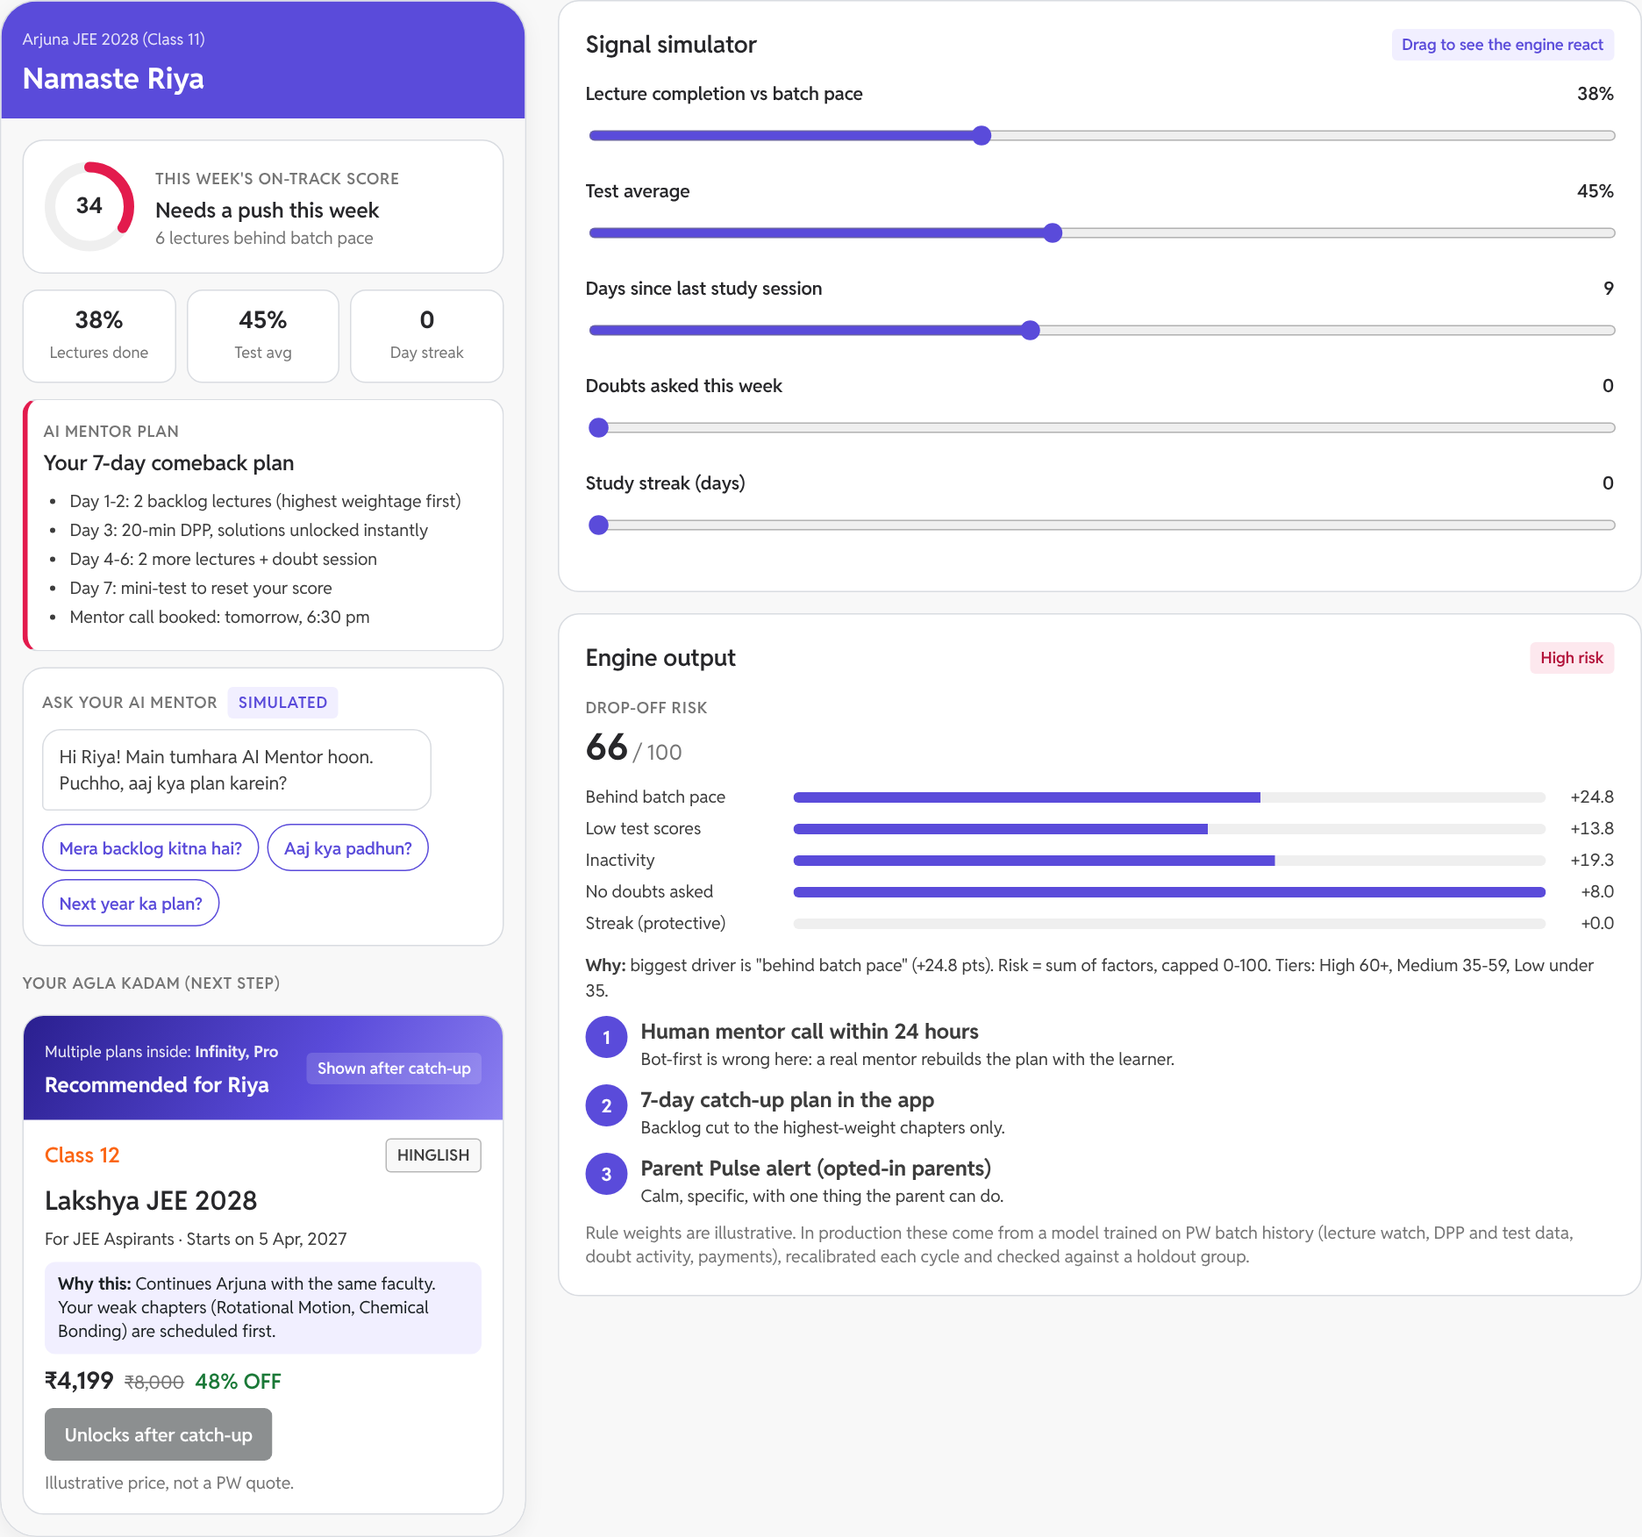
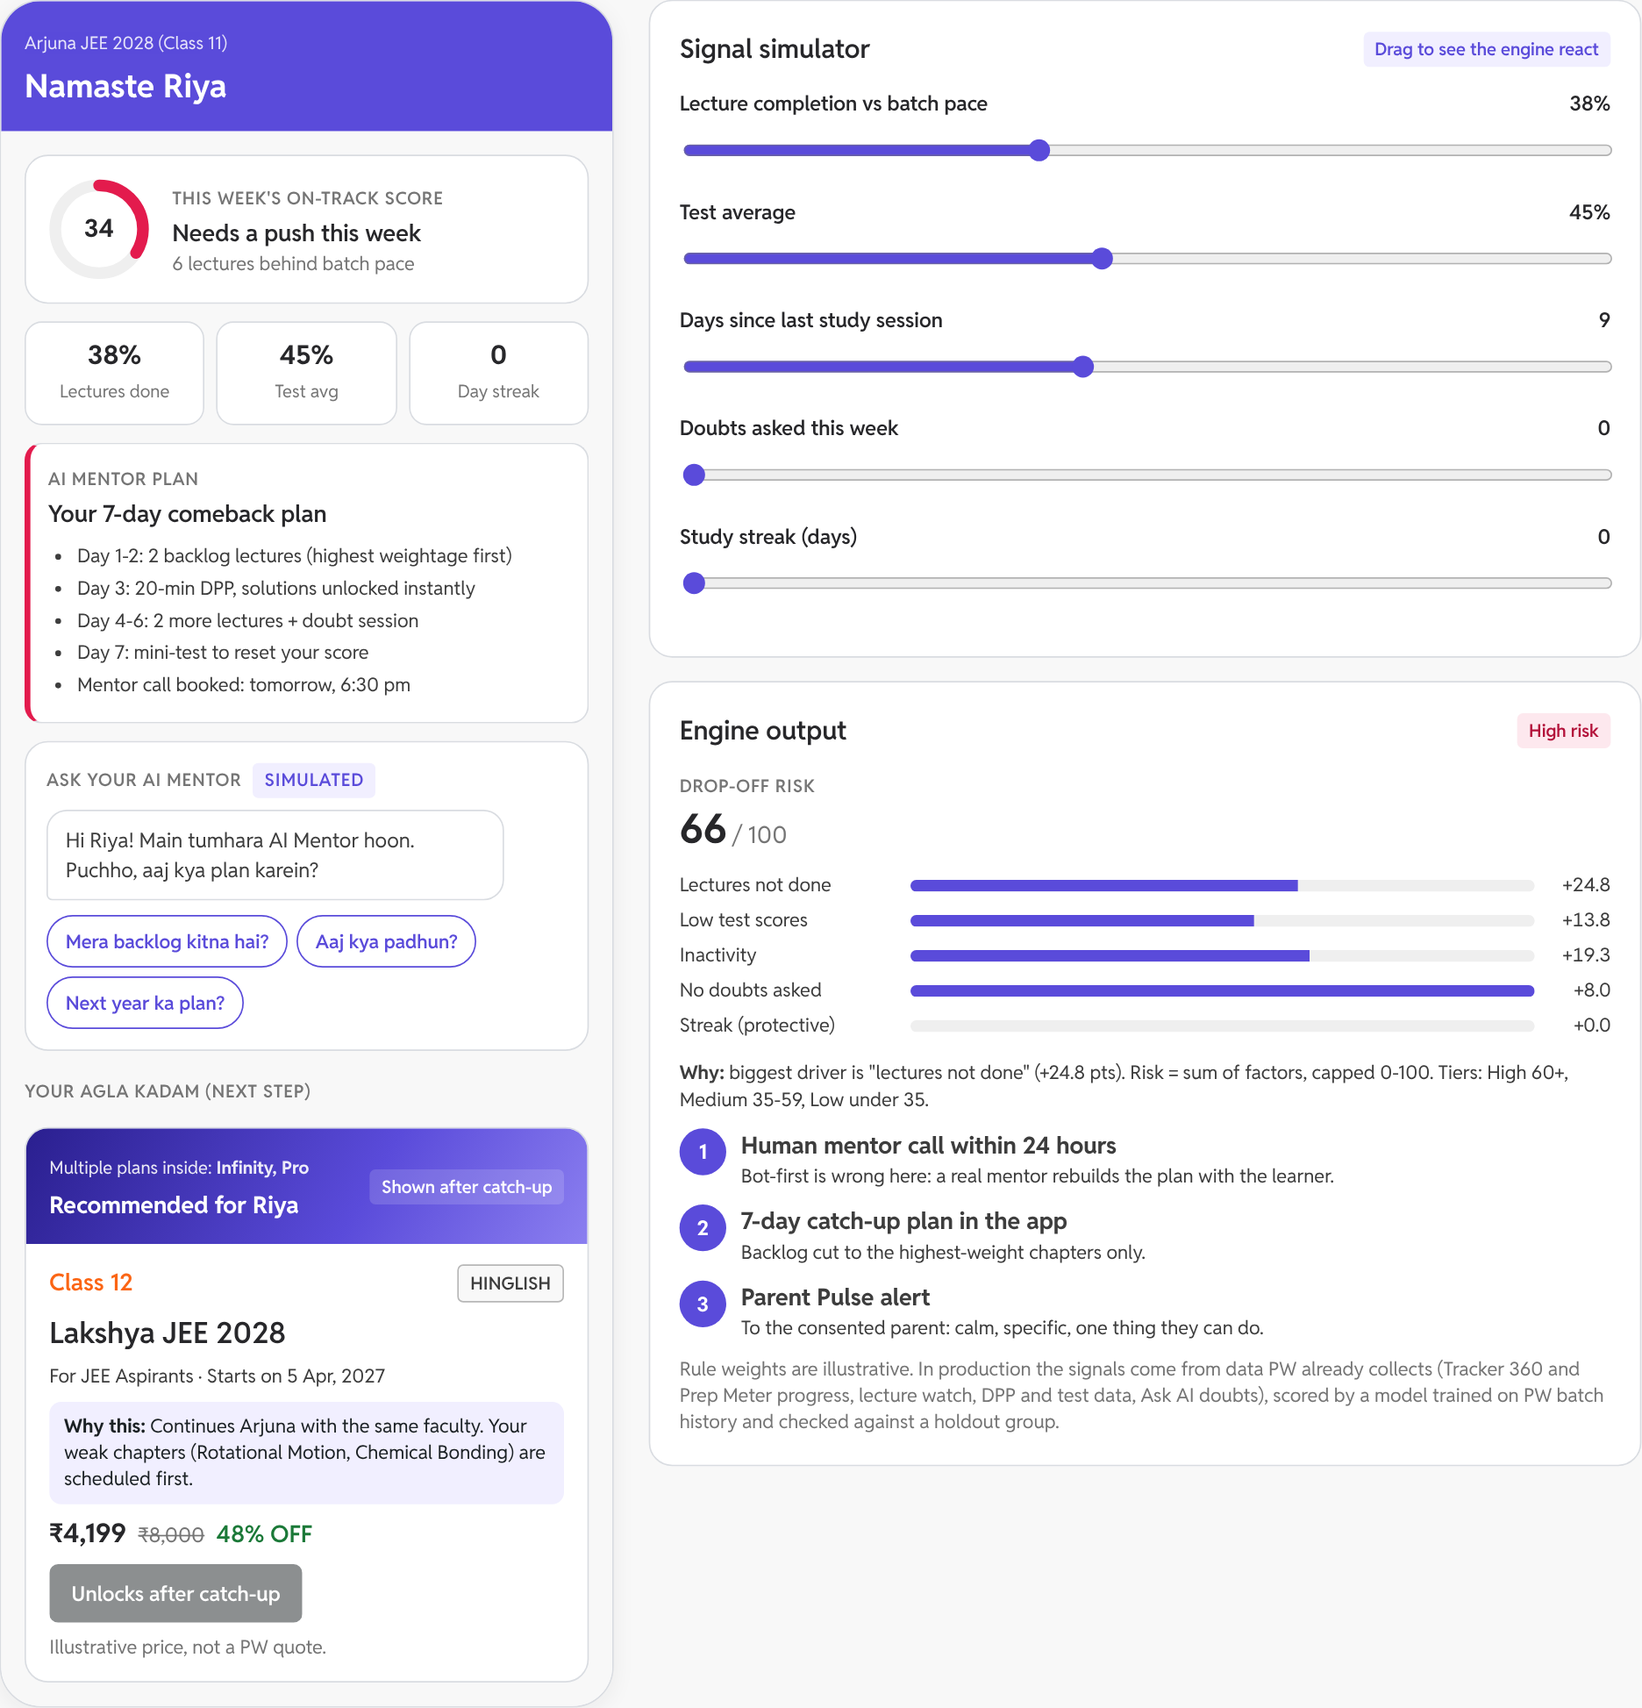
Fix two prototype defects on /pw-study and put the pages under CI (#215)
Review found both after #210 merged; both are on the live page today.

- The engine scored lectures against 100% and called the factor "Behind
  batch pace", while the card and the chat treat 75% as on pace. Aman, at
  82%, read "Ahead of batch pace" on the card and "Behind batch pace +7.2"
  beside it. The factor is now "Lectures not done", which is what
  (100 - done) x 0.4 measures. No weight or score changes.
- The simulated mentor reply posts 250 ms after the question. Switching
  learner inside that window dropped the old learner's reply into the new
  learner's cleared chat. The reply now posts only if its learner is still
  the one on screen.

The console's value column said "Fees at stake", but each value is
learners x expected win-back rate x price: fees expected to be won back, not
fees at stake. Relabelled in the header, the sort note, the KPI and the
case study's image alt text.

student.png and console.png are retaken from the current prototype at the
originals' framing and scale. The old student.png also predated the current
engine copy, so it now matches the page. The img width/height attributes are
updated to the new files.

scripts/pw-study.js (npm run test:pwstudy, now in CI) checks both pages at
390, 820 and 1440, with vercel.json's site-wide CSP injected because serve
sends no headers. Against current production it fails on exactly the three
defects above, at every width, and passes everything else. MUT=race,
[…]

diff --git a/scripts/pw-study.js b/scripts/pw-study.js
@@ -1,0 +1,222 @@
+// The PW case study (/pw-study) and its prototype (/pw-study/prototype) work
+// at phone, tablet and desktop width, under the site's real CSP.
+//
+// WHAT THIS GUARDS
+//   Both pages are self-contained HTML with a lot of inline logic: a risk
+//   engine, age-based Weekly Pulse routing, a seeded 5,000-learner console and
+//   an impact calculator whose total is quoted on the case study itself. None
+//   of that was covered by any suite, so a change to the engine weights, the
+//   calculator defaults or a label could ship a page that contradicts its own
+//   numbers without anything going red.
+//
+//   It also pins two defects that review found after launch:
+//   - The engine labelled its lecture factor "Behind batch pace" and counted it
+//     against 100%, while the card and the chat treat 75% as on pace. Aman, at
+//     82%, read "Ahead of batch pace" on the card and "Behind batch pace +7.2"
+//     beside it. The factor is now "Lectures not done".
+//   - A simulated mentor reply is posted 250 ms after the question. Switching
+//     learner inside that window dropped the old learner's reply into the new
+//     learner's freshly cleared chat.
+//
+// CSP
+//   `serve` sends no headers, and vercel.json's site-wide Content-Security-
+//   Policy is what production enforces. Every HTML response here gets that
+//   policy injected, so a violation shows up as a console error and fails the
+//   run, as it would on the live site.
+//
+// Run against a served build:  node scripts/pw-study.js
+// MUT=race removes the learner guard on the delayed reply; the chat check must
+// fail. MUT=label restores "Behind batch pace"; the consistency check must
+// fail. MUT=dash plants an em dash; the dash check must fail.
+const { chromium } = require('./_playwright.js');
+const vercel = require('../vercel.json');
+const BASE = process.env.BASE || 'http://127.0.0.1:8099';
+const MUT = process.env.MUT || '';
+
+const VIEWPORTS = [
+  { name: '390', width: 390, height: 844 },
+  { name: '820', width: 820, height: 1180 },
+  { name: '1440', width: 1440, height: 900 },
+];
+
+const CSP = (() => {
+  for (const h of vercel.headers) {
+    if (h.source !== '/(.*)') continue;
+    for (const x of h.headers) if (x.key === 'Content-Security-Policy') return x.value;
+  }
+  throw new Error('vercel.json has no site-wide Content-Security-Policy');
+})();
+
+function mutate(src) {
+  if (MUT === 'race') return src.replace('if(P[cur]===p) addMsg', 'addMsg');
+  if (MUT === 'label') return src.replace("k:'Lectures not done'", "k:'Behind batch pace'");
+  if (MUT === 'dash') return src.replace('</body>', '<p>one — two</p></body>');
+  return src;
+}
+
+const results = [];
+const check = (name, ok, detail) => results.push([ok ? 'PASS' : 'FAIL', name, detail == null ? '' : String(detail)]);
+const norm = (s) => (s || '').replace(/\s+/g, ' ').trim();
+
+async function open(browser, vp, path) {
+  const ctx = await browser.newContext({ viewport: { width: vp.width, height: vp.height } });
+  const bag = { errors: [], failed: [] };
+  await ctx.route('**/*', async (route) => {
+    const res = await route.fetch();
+    const headers = { ...res.headers() };
+    if (!(headers['content-type'] || '').includes('text/html')) return route.fulfill({ response: res });
+    headers['content-security-policy'] = CSP;
+    const body = new URL(route.request().url()).pathname.startsWith('/pw-study') ? mutate(await res.text()) : await res.text();
+    return route.fulfill({ response: res, headers, body });
+  });
+  const page = await ctx.newPage();
+  page.on('console', (m) => { if (m.type() === 'error') bag.errors.push(m.text()); });
+  page.on('pageerror', (e) => bag.errors.push('pageerror: ' + e.message));
+  page.on('requestfailed', (r) => bag.failed.push(r.url() + ' ' + (r.failure() || {}).errorText));
+  page.on('response', (r) => { if (r.status() >= 400) bag.failed.push(r.url() + ' HTTP ' + r.status()); });
+  const res = await page.goto(BASE + path, { waitUntil: 'networkidle' });
+  return { ctx, page, bag, status: res.status() };
+}
+
+// Title, textContent (hidden tabs included) and innerText, minus script/style.
+const dashes = (frame) => frame.evaluate(() => {
+  const c = document.body.cloneNode(true);
+  c.querySelectorAll('script,style,noscript').forEach((n) => n.remove());
+  return (document.title + '\n' + c.textContent + '\n' + document.body.innerText).match(/.{0,30}[–—].{0,30}/g) || [];
+});
+const hScroll = (page) => page.evaluate(() => document.documentElement.scrollWidth - document.documentElement.clientWidth);
+
+async function caseStudy(browser, vp) {
+  const L = `[${vp.name}] /pw-study`;
+  const { ctx, page, bag, status } = await open(browser, vp, '/pw-study');
+  check(`${L}: HTTP 200`, status === 200, status);
+
+  await page.click('.filters .chip[data-f="none"]');
+  const rows = await page.$$eval('#audit-tbl tbody tr', (rs) => rs.filter((r) => r.offsetParent !== null).length);
+  check(`${L}: audit "Not found" filter shows 5 rows`, rows === 5, rows);
+
+  // The screenshots stand in for the iframe below 1080px and hide above it.
+  const imgs = [];
+  for (const img of await page.$$('.shots.mob-only img')) {
+    if (!(await img.isVisible())) continue;
+    await img.scrollIntoViewIfNeeded();
+    await page.waitForFunction((el) => el.complete && el.naturalWidth > 0, img, { timeout: 10000 }).catch(() => {});
+    imgs.push(await img.evaluate((el) => el.complete && el.naturalWidth > 0));
+  }
+  const frameEl = await page.$('iframe.proto-frame');
+  const frameVisible = await frameEl.isVisible();
+  if (vp.width >= 1080) {
+    check(`${L}: iframe shown, screenshots hidden`, frameVisible && imgs.length === 0, `iframe=${frameVisible} imgs=${imgs.length}`);
+    await frameEl.scrollIntoViewIfNeeded();
+    const fr = await frameEl.contentFrame();
+    await fr.waitForFunction(() => (document.getElementById('e-tier') || {}).textContent, null, { timeout: 15000 });
+    const hero = await fr.$eval('.hero', (h) => getComputedStyle(h).display);
+    check(`${L}: embedded prototype hides its hero`, hero === 'none', hero);
+    const tier = norm(await fr.textContent('#e-tier'));
+    check(`${L}: embedded engine tag reads High risk`, tier === 'High risk', tier);
+    const d = await dashes(fr);
+    check(`${L}: no em/en dash inside the iframe`, d.length === 0, d.join(' | '));
+  } else {
+    check(`${L}: 3 screenshots load after scroll, iframe hidden`, imgs.length === 3 && imgs.every(Boolean) && !frameVisible,
+      `loaded=${imgs.filter(Boolean).length}/${imgs.length} iframe=${frameVisible}`);
+  }
+
+  const over = await hScroll(page);
+  check(`${L}: no horizontal page scroll`, over <= 0, over + 'px');
+  const d = await dashes(page);
+  check(`${L}: no em/en dash`, d.length === 0, d.join(' | '));
+  await page.waitForTimeout(300);
+  check(`${L}: zero console errors (CSP on)`, bag.errors.length === 0, bag.errors.join(' | '));
+  check(`${L}: zero failed requests`, bag.failed.length === 0, bag.failed.join(' | '));
+  await ctx.close();
+}
+
+async function prototype(browser, vp) {
+  const L = `[${vp.name}] /pw-study/prototype`;
+  const { ctx, page, bag, status } = await open(browser, vp, '/pw-study/prototype');
+  check(`${L}: HTTP 200`, status === 200, status);
+
+  const tiers = { 0: 'High risk', 1: 'Low risk', 2: 'Medium risk', 3: 'Medium risk' };
+  const got = {};
+  for (const i of [1, 2, 3, 0]) {
+    await page.click(`.persona-row .chip[data-p="${i}"]`);
+    got[i] = norm(await page.textContent('#e-tier'));
+  }
+  check(`${L}: Riya High, Aman Low, Meena Medium, Kabir Medium`,
+    Object.keys(tiers).every((i) => got[i] === tiers[i]), JSON.stringify(got));
+
+  // The card and the engine must not disagree about pace. A learner the card
+  // calls ahead must not have an engine factor that says they are behind.
+  const pace = [];
+  for (const i of [0, 1, 2, 3]) {
+    await page.click(`.persona-row .chip[data-p="${i}"]`);
+    const sub = norm(await page.textContent('#s-sub'));
+    const factors = norm(await page.textContent('#e-factors')).toLowerCase();
+    if (/ahead/i.test(sub) && /behind/.test(factors)) pace.push(`p${i}: "${sub}" vs engine "behind"`);
+  }
+  check(`${L}: card and engine agree on pace`, pace.length === 0, pace.join(' | '));
+
+  // Ask Riya a question, switch to Aman inside the 250 ms reply window. Aman's
+  // chat must hold only his own greeting.
+  await page.click('.persona-row .chip[data-p="0"]');
+  await page.click('#quick button[data-q="backlog"]');
+  await page.click('.persona-row .chip[data-p="1"]');
+  await page.waitForTimeout(500);
+  const chat = await page.$$eval('#chat .bubble', (b) => b.map((x) => x.textContent));
+  check(`${L}: a late reply never lands in the next learner's chat`,
+    chat.length === 1 && /Aman/.test(chat[0]), JSON.stringify(chat));
+
+  await page.click('#t-parent');
+  await page.click('#pp-learner button[data-p="3"]');
+  const kabir = norm(await page.textContent('#wa-title'));
+  await page.click('#pp-learner button[data-p="1"]');
+  const amanBefore = norm(await page.textContent('#wa-title'));
+  await page.check('#pp-share');
+  const amanAfter = norm(await page.textContent('#wa-title'));
+  check(`${L}: Pulse title by age and opt-in`,
+    kabir === 'PW Study Pulse' && amanBefore === 'PW Study Pulse' && amanAfter === 'PW Parent Pulse',
+    `Kabir=${kabir} Aman=${amanBefore} -> ${amanAfter}`);
+
+  const total = norm(await page.textContent('#m-total'));
+  check(`${L}: impact total ₹85.3 cr · $8.97M`, total === '₹85.3 cr · $8.97M', total);
+
+  await page.click('#t-console');
+  const head = norm(await page.textContent('#segtbl th:last-child'));
+  check(`${L}: value column is labelled as fees won back`, /^Fees won back/.test(head), head);
+  const picked = [];
+  for (const idx of [-1, 0]) {
+    const rows = await page.$$('#segtbl tbody tr');
+    const r = rows[idx < 0 ? rows.length + idx : idx];
+    const name = norm(await r.$eval('td', (td) => td.innerText));
+    await r.click();
+    picked.push([name, norm(await page.textContent('#seg-detail h3')), norm(await page.textContent('#seg-detail .label'))]);
+  }
+  check(`${L}: console row click updates "Selected group"`,
+    picked.every(([n, h, l]) => l === 'Selected group' && n === h) && picked[0][1] !== picked[1][1], JSON.stringify(picked));
+
+  let worst = 0;
+  for (const tab of ['#t-student', '#t-parent', '#t-console', '#t-brand']) {
+    await page.click(tab);
+    worst = Math.max(worst, await hScroll(page));
+  }
+  check(`${L}: no horizontal page scroll on any tab`, worst <= 0, worst + 'px');
+  const d = await dashes(page);
+  check(`${L}: no em/en dash`, d.length === 0, d.join(' | '));
+  await page.waitForTimeout(300);
+  check(`${L}: zero console errors (CSP on)`, bag.errors.length === 0, bag.errors.join(' | '));
+  check(`${L}: zero failed requests`, bag.failed.length === 0, bag.failed.join(' | '));
+  await ctx.close();
+}
+
+(async () => {
+  const browser = await chromium.launch();
+  for (const vp of VIEWPORTS) {
+    await caseStudy(browser, vp);
+    await prototype(browser, vp);
+  }
+  for (const [s, n, d] of results) console.log('  ' + s + '  ' + n.padEnd(70) + (d || ''));
+  const pass = results.filter((r) => r[0] === 'PASS').length;
+  console.log('\n' + pass + '/' + results.length + ' passed' + (MUT ? '  [MUT=' + MUT + ']' : ''));
+  await browser.close();
+  process.exit(pass === results.length ? 0 : 1);
+})().catch((e) => { console.error(e); process.exit(2); });

diff --git a/pw-study/prototype.html b/pw-study/prototype.html
@@ -358,13 +358,13 @@ footer .wrap{padding-top:16px;padding-bottom:24px;font-size:13px;line-height:19p
       </div>
       <div class="card">
         <h3>2 · What we do about it</h3>
-        <p class="small muted" style="margin-top:4px">Sorted by fees at stake, highest first. Click a column header to re-sort, or a row for detail.</p>
+        <p class="small muted" style="margin-top:4px">Sorted by expected fees won back, highest first. Click a column header to re-sort, or a row for detail.</p>
         <div class="tbl-wrap" style="margin-top:10px"><table id="segtbl"><thead><tr>
           <th><button data-k="seg">Group</button></th>
           <th><button data-k="action">Action this week</button></th>
           <th class="num"><button data-k="n">Learners</button></th>
           <th class="num"><button data-k="avgRisk">Avg risk</button></th>
-          <th class="num"><button data-k="value">Fees at stake (₹)</button></th>
+          <th class="num"><button data-k="value">Fees won back (₹)</button></th>
         </tr></thead><tbody></tbody></table></div>
         <div class="detail" id="seg-detail" aria-live="polite"></div>
       </div>
@@ -465,7 +465,7 @@ var clamp = function(v,a,b){return Math.max(a,Math.min(b,v));};
 /* ---------- Engine: transparent rules (illustrative weights) ---------- */
 function score(s){
   var f = [
-    {k:'Behind batch pace', v:(100-s.lec)*0.40, max:40},
+    {k:'Lectures not done', v:(100-s.lec)*0.40, max:40},
     {k:'Low test scores',   v:(100-s.test)*0.25, max:25},
     {k:'Inactivity',        v:Math.min(s.idle,14)/14*30, max:30},
     {k:'No doubts asked',   v:s.doubt===0?8:0, max:8},
@@ -598,7 +598,7 @@ function answer(k,label){
   if(k==='backlog') txt = behind>0 ? 'Tum batch se '+behind+' lectures peeche ho. Tension mat lo: sirf high-weightage wale pehle karenge, '+Math.ceil(behind/2)+' din mein cover ho jayega.' : 'Koi backlog nahi! Tum batch pace se aage ho. Ab practice pe focus karte hain.';
   else if(k==='today') txt = res.tier==='High' ? 'Aaj sirf 2 cheezein: 1 backlog lecture (45 min) aur 10-question DPP. Chhota target, pakka result.' : res.tier==='Medium' ? 'Aaj 1 lecture + apne weakest chapter ka DPP. Doubts ho to Ask AI pe daal do.' : 'Aaj ka lecture + Sunday test ki prep. Streak '+s.streak+' din ka hai, todna mat!';
   else txt = 'Results ke din main tumhara personal report banaunga. Abhi ke data se best next step: '+p.next.title+'. Pehle is saal ka plan strong karte hain.';
-  setTimeout(function(){ addMsg('ai',txt); },250);
+  setTimeout(function(){ if(P[cur]===p) addMsg('ai',txt); },250);
 }
 
 /* ---------- Weekly Pulse (Parent or Self) ---------- */
@@ -688,7 +688,7 @@ function buildConsole(){
     [N.toLocaleString('en-IN'),'Paid learners in this demo cohort'],
     [Math.round(hi.length/N*100)+'%','Drifting this week (high risk)'],
     [(hi.length+me.length).toLocaleString('en-IN'),'Get a rescue action this week'],
-    [INR(stake),'Fees at stake in this cohort']
+    [INR(stake),'Expected fees won back in this cohort']
   ].map(function(k){return '<div class="kpi"><b>'+k[0]+'</b><span>'+k[1]+'</span></div>';}).join('');
   var mix=[['High',hi.length,'h'],['Medium',me.length,'m'],['Low',lo.length,'l']].sort(function(a,b){return b[1]-a[1];});
   el('riskbars').innerHTML=mix.map(function(m){var p=m[1]/N*100;return '<div class="chartbar"><span>'+m[0]+' risk</span><span class="bar"><i class="'+m[2]+'" style="width:'+p.toFixed(1)+'%"></i></span><span style="text-align:right;font-variant-numeric:tabular-nums">'+p.toFixed(1)+'%</span></div>';}).join('');

diff --git a/pw-study/index.html b/pw-study/index.html
@@ -376,9 +376,9 @@ footer h3{color:#fff}
       <div class="hero-ctas" style="margin-top:6px"><a class="btn btn-primary" href="/pw-study/prototype">Open full screen</a></div></div>
     <iframe class="proto-frame" src="/pw-study/prototype?embed=1" title="Agla Kadam working prototype" loading="lazy"></iframe>
     <div class="shots mob-only">
-      <figure><img src="/pw-study/img/student.png" alt="Prototype student app: on-track score, 7-day comeback plan, AI Mentor chat and recommended next batch" loading="lazy" width="1872" height="1752"><figcaption>Student app: a plan, not a warning</figcaption></figure>
+      <figure><img src="/pw-study/img/student.png" alt="Prototype student app: on-track score, 7-day comeback plan, AI Mentor chat and recommended next batch" loading="lazy" width="1872" height="1947"><figcaption>Student app: a plan, not a warning</figcaption></figure>
       <figure><img src="/pw-study/img/pulse.png" alt="Weekly Pulse WhatsApp preview sent to a parent of a 16-year-old" loading="lazy" width="660" height="1094"><figcaption>Weekly Pulse to the right person</figcaption></figure>
-      <figure><img src="/pw-study/img/console.png" alt="Growth console action table grouping learners by risk and age, with fees at stake" loading="lazy" width="1062" height="1130"><figcaption>Growth console: the Monday screen</figcaption></figure>
+      <figure><img src="/pw-study/img/console.png" alt="Growth console action table grouping learners by risk and age, with the fees each action is expected to win back" loading="lazy" width="1061" height="1130"><figcaption>Growth console: the Monday screen</figcaption></figure>
     </div>
   </div>
 </section>
